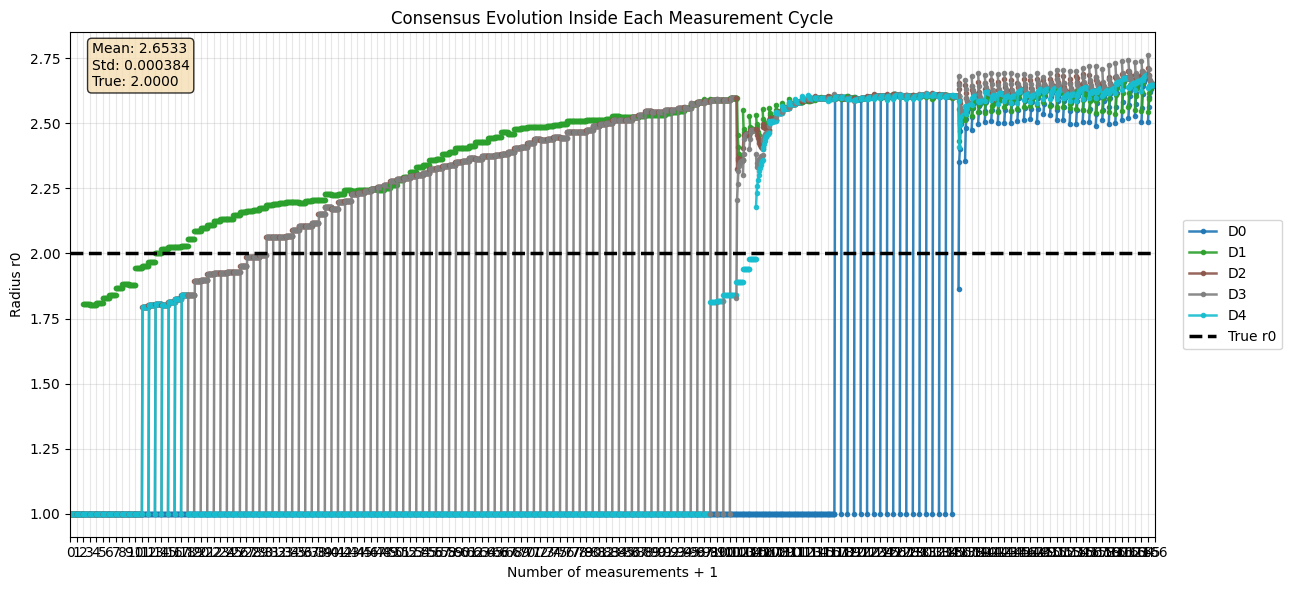
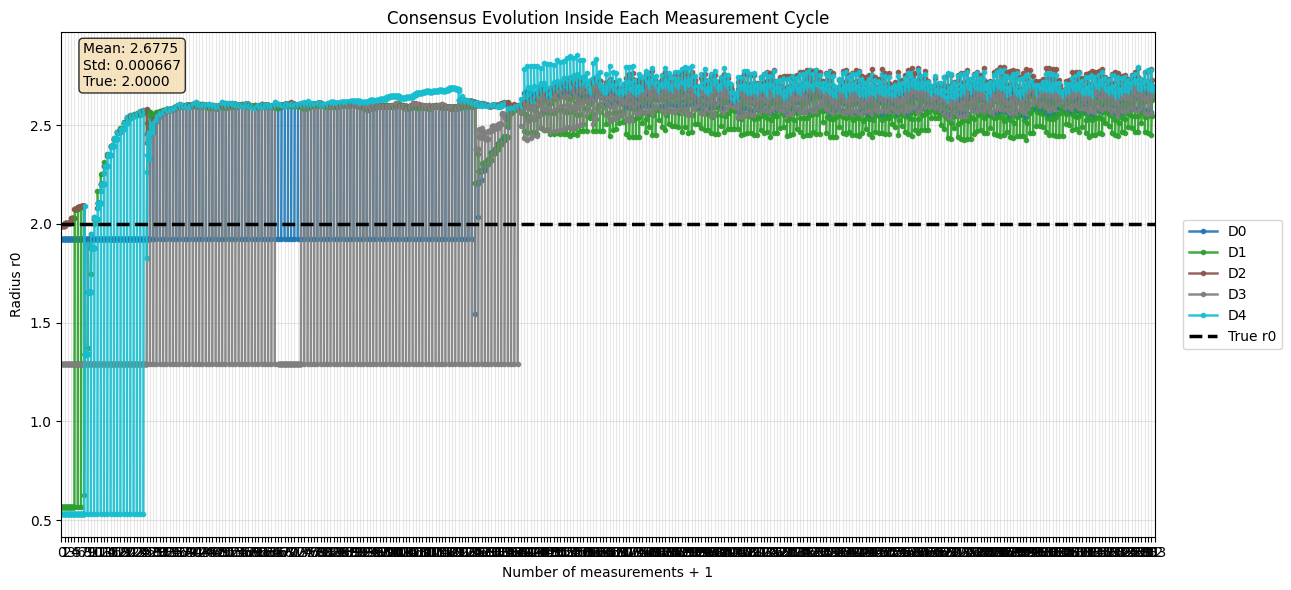
init branch

diff --git a/drone.py b/drone.py
@@ -7,8 +7,8 @@ class Drone:
     The drone senses the spill and is moved by an external control input.
     """
     def __init__(self, drone_id, x, y, map_bounds, sensor_size=100, 
-                 gps_noise=0.03, camera_noise=0.03, true_x0=0.0, true_y0=0.0,
-                 max_speed=0.6):
+                 gps_noise=0.03, camera_noise=0.03, initial_x0=0.0, initial_y0=0.0,
+                 initial_r0=1.0, max_speed=0.6):
         self.drone_id = drone_id
         self.x = x
         self.y = y
@@ -20,11 +20,11 @@ class Drone:
         self.camera = CameraSensor(size=sensor_size, noise_std=camera_noise)
 
         # Current local estimate of the spill: theta = [cx, cy, r]
-        # Initialize with ground truth if available, but will be overwritten by first measurement.
-        self.theta = np.array([float(true_x0), float(true_y0), 1.0], dtype=float)
+        # Initialize with provided guess.
+        self.theta = np.array([float(initial_x0), float(initial_y0), float(initial_r0)], dtype=float)
         self.theta_prev = None  # To be set after first valid estimation
-        self.theta_measured = np.array([float(true_x0), float(true_y0), 1.0], dtype=float)
-        self.theta_fused = np.array([float(true_x0), float(true_y0), 1.0], dtype=float)
+        self.theta_measured = np.array([float(initial_x0), float(initial_y0), float(initial_r0)], dtype=float)
+        self.theta_fused = np.array([float(initial_x0), float(initial_y0), float(initial_r0)], dtype=float)
 
         self.has_radius_estimate = False
         self.edge_detected = False

diff --git a/simulation_engine.py b/simulation_engine.py
@@ -161,6 +161,13 @@ class SimulationEngine:
         return np.clip(4.0 * field * (1.0 - field), 0.0, None)
 
     def add_drone(self, drone_id, x, y):
+        # Initialize with random guesses for center and radius instead of ground truth.
+        # Maps are typically [-5, 5], so guesses in [-2, 2] for center 
+        # and [0.5, 2.5] for radius are reasonable deviations.
+        init_cx = float(np.random.uniform(-2.0, 2.0))
+        init_cy = float(np.random.uniform(-2.0, 2.0))
+        init_r = float(np.random.uniform(0.5, 2.5))
+
         drone = Drone(
             drone_id,
             x,
@@ -168,8 +175,9 @@ class SimulationEngine:
             map_bounds=(*self.sim_map.xlim, *self.sim_map.ylim),
             gps_noise=self.sigma_gps,
             camera_noise=self.sigma_cam,
-            true_x0=self.true_x0,
-            true_y0=self.true_y0,
+            initial_x0=init_cx,
+            initial_y0=init_cy,
+            initial_r0=init_r,
             max_speed=self.max_speed,
         )
         # Ensure exploration has significant X and Y components (angle not too close to axes)
